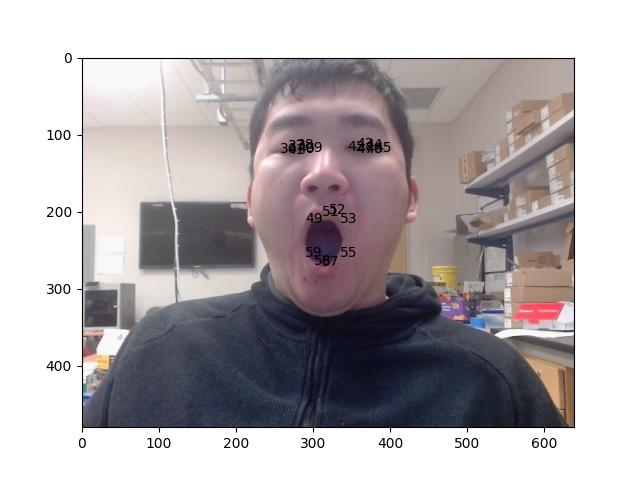
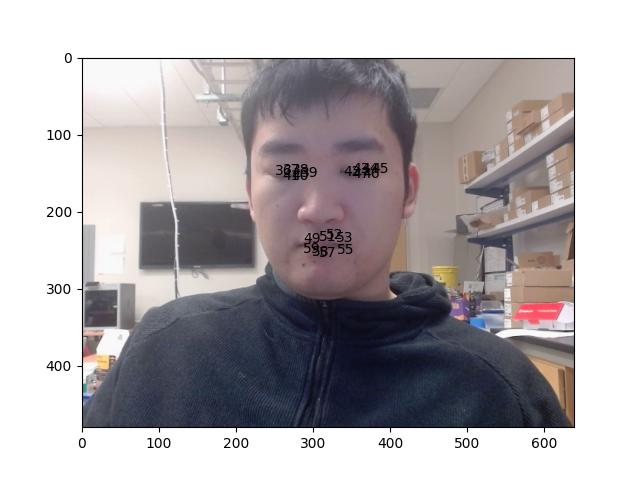
update

diff --git a/fatigue/fat_det.py b/fatigue/fat_det.py
@@ -54,16 +54,13 @@ def check_fatigue(landmark: list[tuple[int, int]], image: np.ndarray, visualize=
 
 
 def fatigue_detection(images: list[np.ndarray], visualize=False):
-    try:
-        fatigue_threshold = 0.5
-        landmarks = [detect_landmarks(img, visualize) for img in images]
-        fatigue = [
-            check_fatigue(landmark, img, visualize)
-            for landmark, img in zip(landmarks, images)
-        ]
-        fatigue_score = sum(fatigue) / len(fatigue)
-        if fatigue_score > fatigue_threshold:
-            return True
-        return False
-    except:
-        return False
+    fatigue_threshold = 0.5
+    landmarks = [detect_landmarks(img, visualize) for img in images]
+    fatigue = [
+        check_fatigue(landmark, img, visualize)
+        for landmark, img in zip(landmarks, images)
+    ]
+    fatigue_score = sum(fatigue) / len(fatigue)
+    if fatigue_score > fatigue_threshold:
+        return True
+    return False

diff --git a/test.py b/test.py
@@ -13,7 +13,7 @@ import numpy as np
 from fatigue.fat_det import fatigue_detection
 import cv2
 
-images = np.load("open_mouth.npy")
+images = np.load("close_eye.npy")
 images = [image for image in images]
 # for image in images:
 #     cv2.imshow("image", image)
